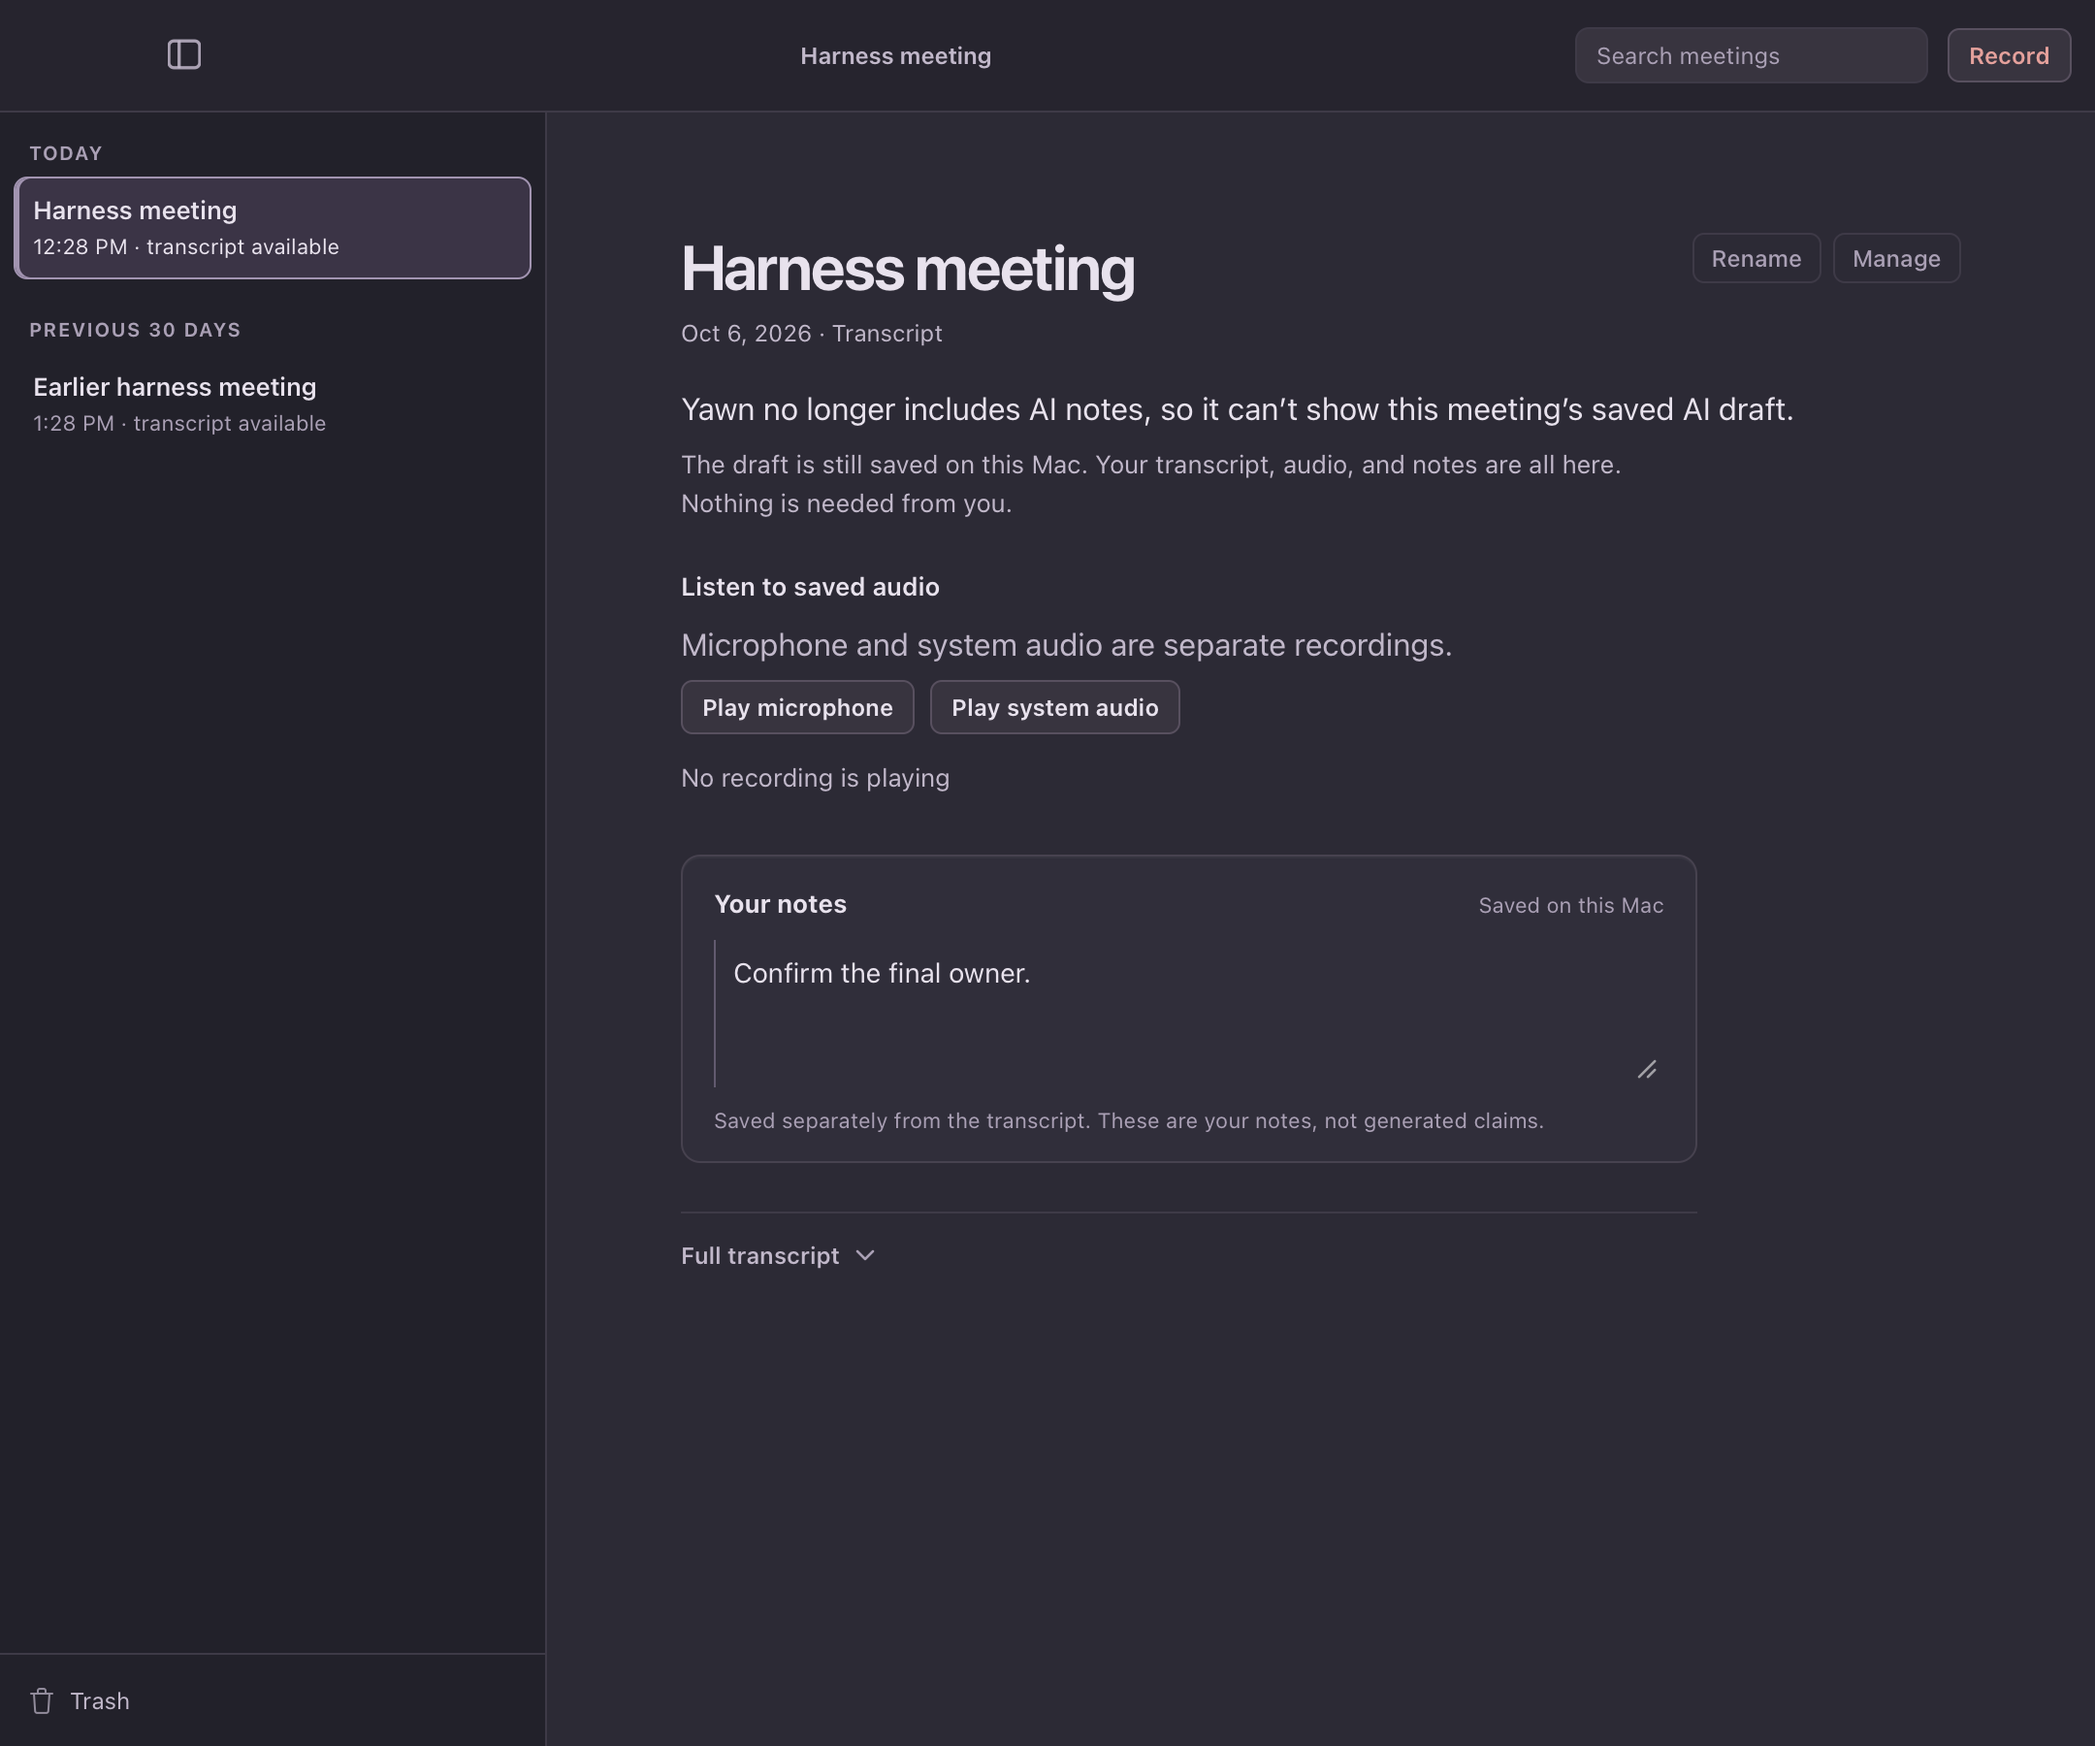
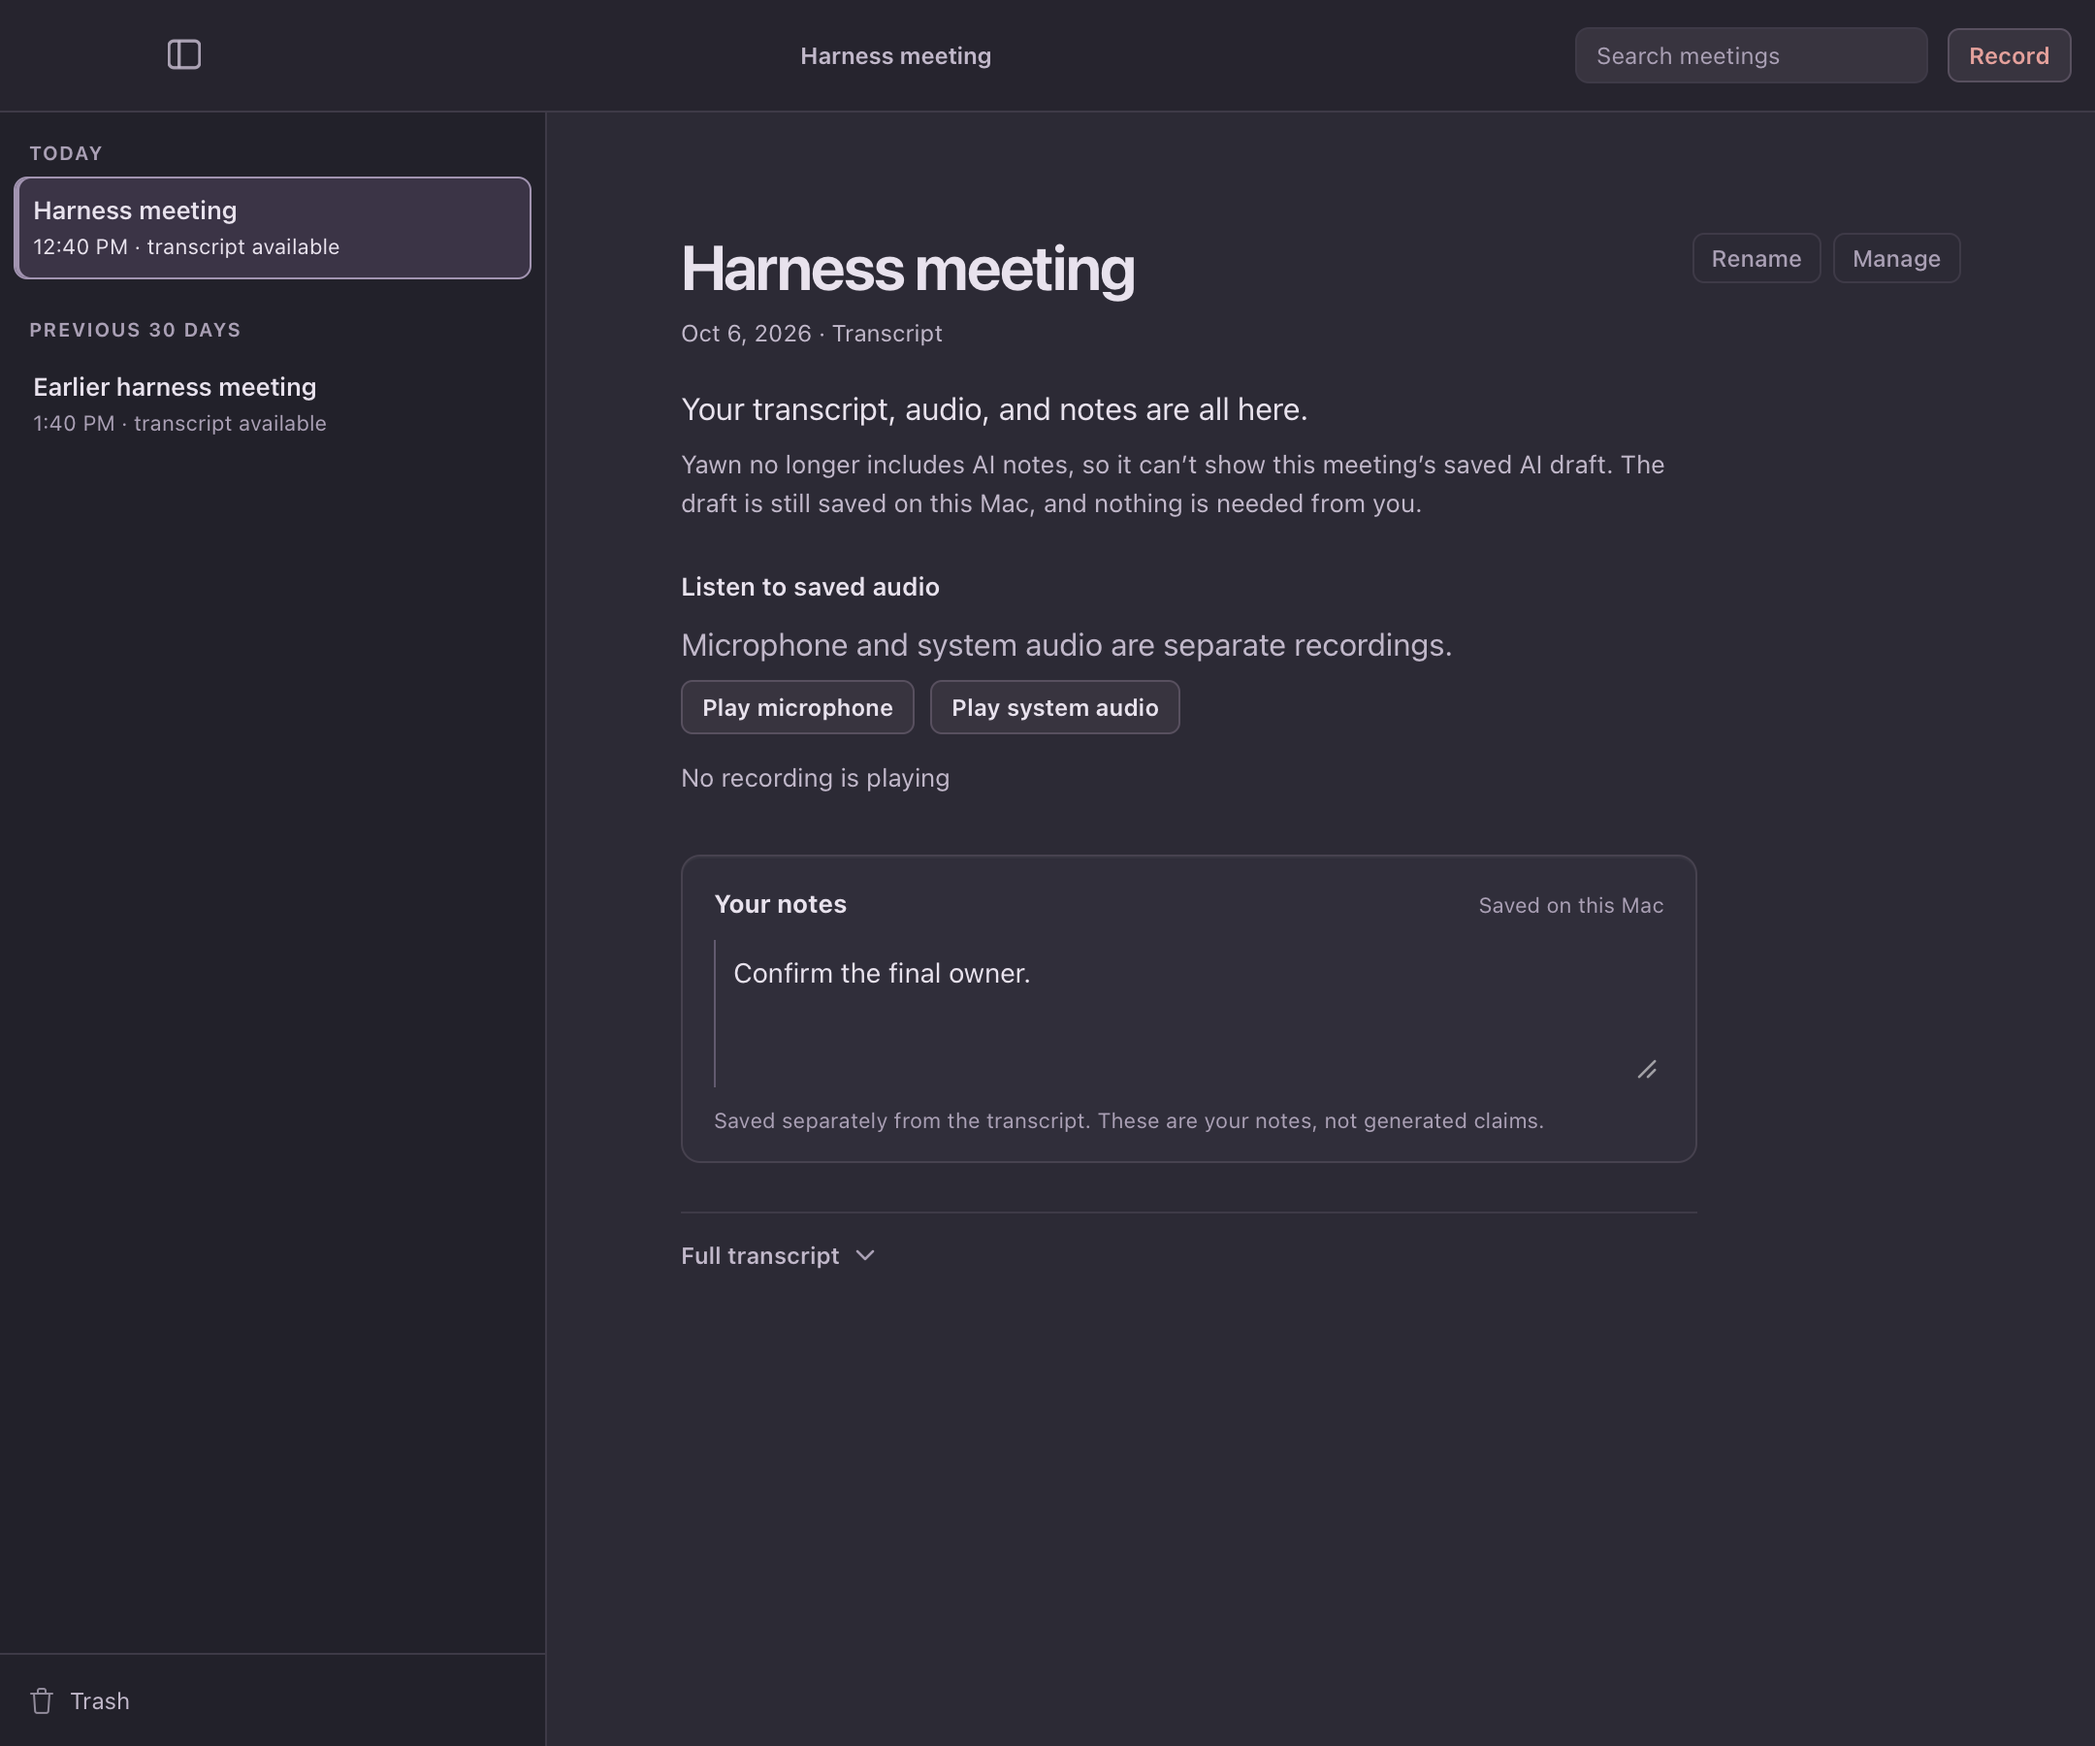
fix(yawn): lead the withheld-draft note with what the meeting has
Operator decision after four cold passes did not converge: the headline
now names what is present ("Your transcript, audio, and notes are all
here."), dropping "audio" once retention has released it. The detail
explains that Yawn no longer includes AI notes, so it can't show the
saved draft, which is still saved on this Mac. A UI test asserts that
the headline changes with audio retention.

Changed region(s): [[0.3102, 0.2178, 0.8375, 0.3111], [0.1241, 0.1244, 0.1551, 0.1556], [0.031, 0.1244, 0.062, 0.1556]]

diff --git a/apps/desktop/src-tauri/src/library_reader.rs b/apps/desktop/src-tauri/src/library_reader.rs
@@ -32,7 +32,7 @@ use uuid::Uuid;
 
 const STALE_MESSAGE: &str = "That view is no longer current. Reopen it and try again.";
 const UNAVAILABLE_MESSAGE: &str = "The local library is unavailable. Reopen the app and try again.";
-const SAVED_NOTE_UNREADABLE_MESSAGE: &str = "Yawn no longer includes AI notes, so it can't show this meeting's saved AI draft. The draft is still saved on this Mac. Your transcript, audio, and notes are all here. Nothing is needed from you.";
+const SAVED_NOTE_UNREADABLE_MESSAGE: &str = "Yawn no longer includes AI notes, so it can't show this meeting's saved AI draft. The draft is still saved on this Mac, and nothing is needed from you.";
 /// Roadmap intake I5. Said the same way everywhere a locked meeting refuses,
 /// and deliberately not a security claim: the meeting is behind a local
 /// barrier that a confirmation lifts, and the sentence says exactly that.

diff --git a/DIRECTION.md b/DIRECTION.md
@@ -94,7 +94,7 @@ did not produce (brief amendment, 2026-09-01).
 
 | Date | Surface | Strings | Verdict |
 |---|---|---|---|
-| 2026-10-06 | Withheld saved AI draft (`saved-note-unreadable`): a ready meeting whose saved draft this install cannot read because no note projector is admitted. Note-area line plus document caption | Title: "Yawn no longer includes AI notes, so it can’t show this meeting’s saved AI draft." Detail: "The draft is still saved on this Mac. Your transcript, audio, and notes are all here. Nothing is needed from you." Caption: "Transcript" (as transcript-only). Backend message: "Yawn no longer includes AI notes, so it can't show this meeting's saved AI draft. The draft is still saved on this Mac. Your transcript, audio, and notes are all here. Nothing is needed from you." Export omission line: "note.md was not included: Yawn no longer includes AI notes, so it can't read this meeting's saved AI draft. The draft is still saved on this Mac." | Proposed by an agent session; cold review did not converge after four passes (see `docs/evidence/screen-reviews/saved-draft-unreadable-2026-10-06-cold.md`). Open operator wording decision: lead with what can't be shown, or with what the meeting has. Tests assert the state, that it is not "summary-failed", that it does not block the pane, and that audio stays playable, not this wording |
+| 2026-10-06 | Withheld saved AI draft (`saved-note-unreadable`): a ready meeting whose saved draft this install cannot read because no note projector is admitted. Note-area headline plus detail, document caption, export omission | Headline: "Your transcript, audio, and notes are all here." (audio retained) / "Your transcript and notes are all here." (audio released). Detail: "Yawn no longer includes AI notes, so it can’t show this meeting’s saved AI draft. The draft is still saved on this Mac, and nothing is needed from you." Caption: "Transcript". Backend message: "Yawn no longer includes AI notes, so it can't show this meeting's saved AI draft. The draft is still saved on this Mac, and nothing is needed from you." Export omission: "note.md was not included: Yawn no longer includes AI notes, so it can't read this meeting's saved AI draft. The draft is still saved on this Mac." | Operator chose the structure (lead with what the meeting has) after four cold passes did not converge (`docs/evidence/screen-reviews/saved-draft-unreadable-2026-10-06-cold.md`); sentence wording is agent-drafted. Tests assert the state, non-blocking, playback, and that the headline changes with audio retention, not this wording |
 | 2026-09-30 | Generation retirement, transcript-only and historical generation states | "Automatic note generation is no longer available. Your notes and transcript remain available." | Parent-selected implementation copy following the operator's approved deprecation. Revised cold screen review accepted; this is not operator wording acceptance. |
 | 2026-09-01 | W10 first-run sheet, teaching empty state, guided hint | All W10 user-facing strings, verbatim in the packet report | Approved as-is by the operator; x-close retained |
 | 2026-09-02 | Meeting document state caption (R24) and the two note-state sentences (R23, R24b) | Caption: "Meeting note" / "Transcript" / "Note not created" / "Interrupted" / "Locked" / "Details only". Released audio, no note: "The audio was already deleted. The transcript remains available, but this meeting cannot be retranscribed." First failed generation: "Yawn could not create a note. Your transcript is unchanged and you can try again." | Proposed; not yet read by the operator. Tests assert the mapping and the no-note invariant, not this wording |
